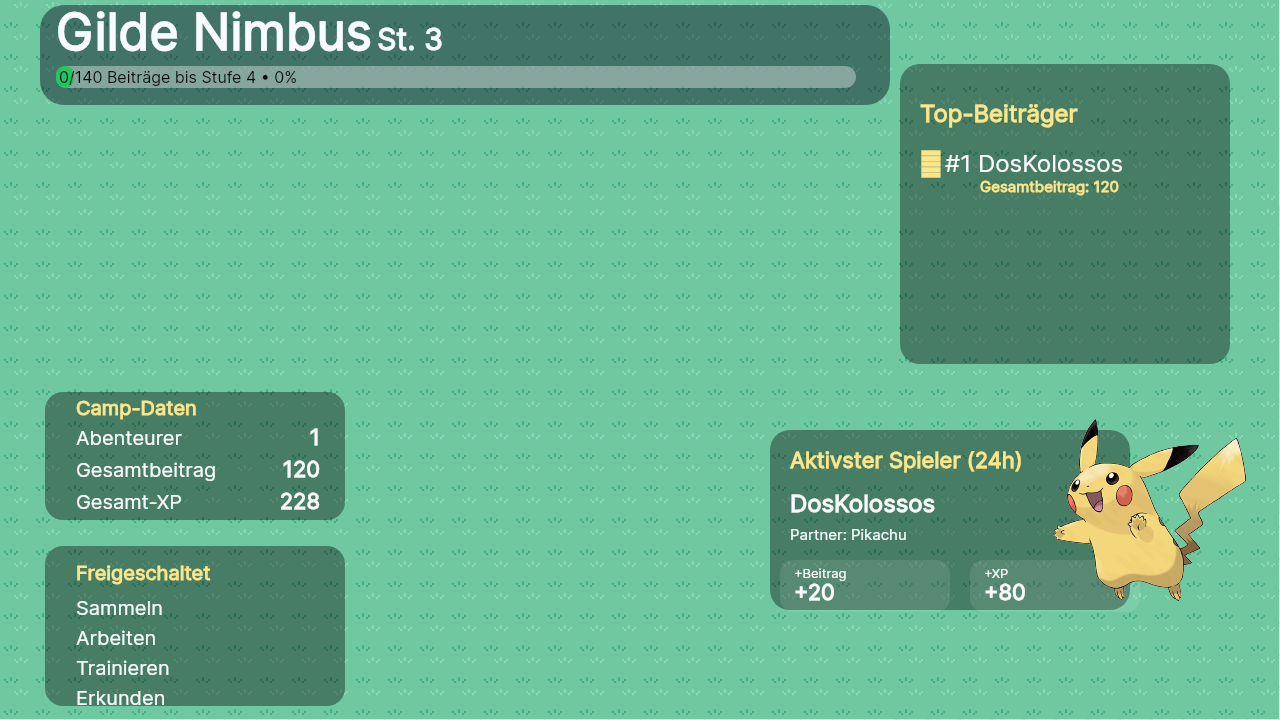
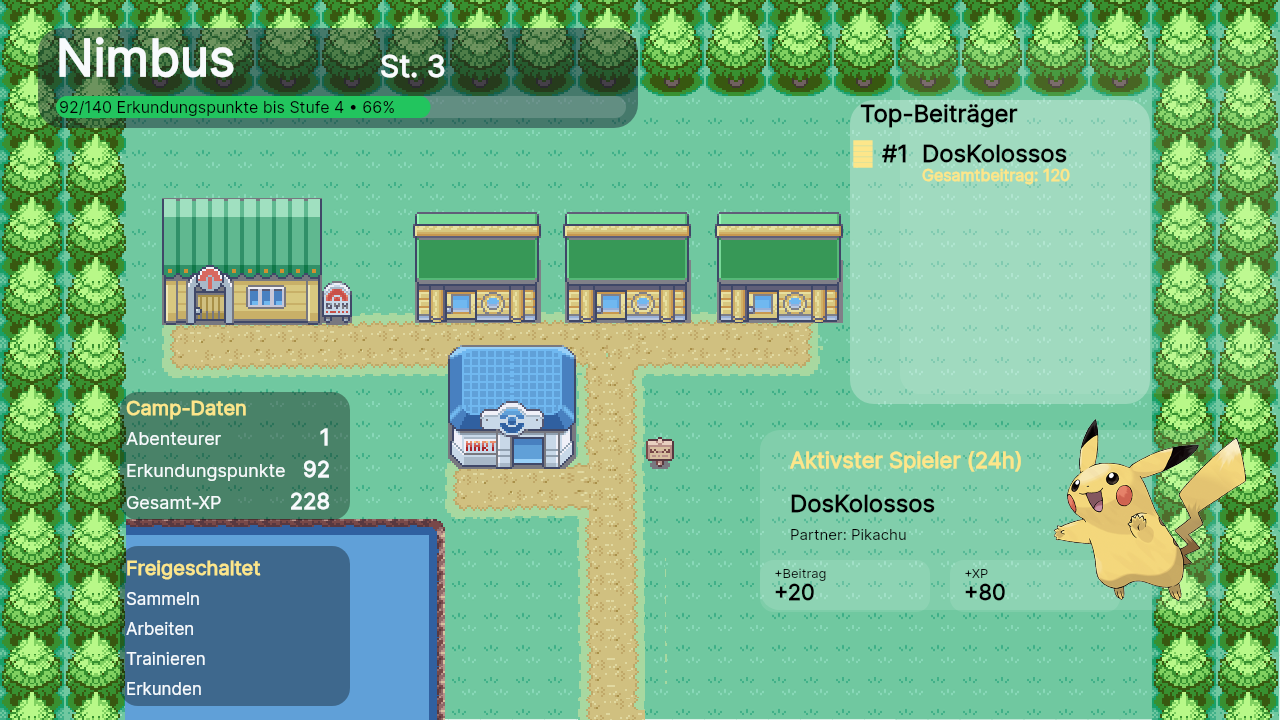
canvas update

diff --git a/src/services/campStatusService.js b/src/services/campStatusService.js
@@ -167,6 +167,7 @@ async function renderCampImageBuffer(guildKey = null) {
     border: 'rgba(255,255,255,0.08)',
     panel: 'rgba(15, 23, 42, 0.78)',
     card: 'rgba(255,255,255,0.08)',
+    cardBlack: 'rgba(0,0,0,0.35)',
     cardStrong: 'rgba(255,255,255,0.12)'
   };
 
@@ -191,18 +192,18 @@ async function renderCampImageBuffer(guildKey = null) {
   const percentText = progress.isMaxLevel ? '100%' : `${Math.round(progressPercent * 100)}%`;
 
   // Header links
-  ctx.fillStyle = colors.black;
+  ctx.fillStyle = colors.white;
   ctx.font = font(50, 'bold');
   ctx.fillText(trimText(ctx, guildName, 280), 56, 76);
 
-  ctx.fillStyle = colors.black;
+  ctx.fillStyle = colors.white;
   ctx.font = font(30, 'bold');
-  ctx.fillText(`St. ${progress.level}`, 360, 77);
+  ctx.fillText(`St. ${progress.level}`, 380, 77);
 
   drawProgressBar(ctx, {
     x: 56,
     y: 96,
-    width: 800,
+    width: 570,
     height: 22,
     fillPercent: progressPercent,
     label: progress.isMaxLevel
@@ -213,54 +214,54 @@ async function renderCampImageBuffer(guildKey = null) {
 
 
   // Linke Karten
-  drawCard(ctx, 56, 292, 200, 128, 18, colors.card);
-  drawCard(ctx, 56, 446, 200, 160, 18, colors.card);
+  drawCard(ctx, 120, 392, 230, 128, 18, colors.cardBlack);
+  drawCard(ctx, 120, 546, 230, 160, 18, colors.cardBlack);
 
   ctx.fillStyle = colors.gold;
-  ctx.font = font(18, 'bold');
-  ctx.fillText('Camp-Daten', 76, 315);
+  ctx.font = font(20, 'bold');
+  ctx.fillText('Camp-Daten', 126, 415);
 
-  drawLabelValue(ctx, 'Abenteurer', String(totals.players), 76, 345, 220, font, colors);
-  drawLabelValue(ctx, progress.progressionLabel, String(progress.resourceValue), 76, 377, 220, font, colors);
-  drawLabelValue(ctx, 'Gesamt-XP', String(totals.xp), 76, 409, 220, font, colors);
+  drawLabelValue(ctx, 'Abenteurer', String(totals.players), 126, 445, 330, font, colors);
+  drawLabelValue(ctx, progress.progressionLabel, String(progress.resourceValue), 126, 477, 330, font, colors);
+  drawLabelValue(ctx, 'Gesamt-XP', String(totals.xp), 126, 509, 330, font, colors);
 
   ctx.fillStyle = colors.gold;
-  ctx.font = font(18, 'bold');
-  ctx.fillText('Freigeschaltet', 76, 480);
+  ctx.font = font(20, 'bold');
+  ctx.fillText('Freigeschaltet', 126, 575);
 
   ctx.font = font(17, 'normal');
-  ctx.fillStyle = colors.black;
+  ctx.fillStyle = colors.white;
   getUnlockedFeatures(progress.level).forEach((feature, index) => {
-    ctx.fillText(`• ${feature}`, 76, 515 + (index * 30));
+    ctx.fillText(`${feature}`, 126, 605 + (index * 30));
   });
 
   // Rechte Spalte
-  drawCard(ctx, 760, 44, 460, 350, 20, colors.card);
+  drawCard(ctx, 900, 44, 460, 350, 20, colors.card);
   drawCard(ctx, 760, 430, 460, 180, 20, colors.cardStrong);
 
   ctx.fillStyle = colors.black;
   ctx.font = font(24, 'bold');
-  ctx.fillText('Top-Beiträger', 790, 82);
+  ctx.fillText('Top-Beiträger',860, 122);
 
   topContributors.forEach((player, index) => {
     const medal = index === 0 ? '🥇' : index === 1 ? '🥈' : '🥉';
-    const y = 132 + (index * 86);
+    const y = 162 + (index * 86);
 
     ctx.fillStyle = colors.gold;
     ctx.font = font(22, 'bold');
-    ctx.fillText(medal, 792, y);
+    ctx.fillText(medal, 852, y);
 
     ctx.fillStyle = colors.black;
     ctx.font = font(24, 'bold');
-    ctx.fillText(trimText(ctx, player.discord_username, 300), 842, y);
+    ctx.fillText(trimText(ctx, player.discord_username, 300), 922, y);
 
     ctx.fillStyle = colors.black;
-    ctx.font = font(16, 'normal');
-    ctx.fillText(`Platz ${index + 1}`, 842, y + 24);
+    ctx.font = font(24, 'bold');
+    ctx.fillText(`#${index + 1}`, 882, y);
 
     ctx.fillStyle = colors.gold;
-    ctx.font = font(20, 'bold');
-    ctx.fillText(`Gesamtbeitrag: ${player.contribution}`, 842, y + 52);
+    ctx.font = font(16, 'bold');
+    ctx.fillText(`Gesamtbeitrag: ${player.contribution}`, 922, y + 18);
   });
 
   ctx.fillStyle = colors.gold;
@@ -383,12 +384,12 @@ function drawFallbackBackground(ctx, width, height, level) {
 }
 
 function drawOverlayPanel(ctx, width, height) {
-  ctx.fillStyle = 'rgba(15, 23, 42, 0.28)';
-  roundRect(ctx, 28, 28, 1224, 664, 24);
+  ctx.fillStyle = 'rgba(15, 23, 42, 0.45)';
+  roundRect(ctx, 38, 28, 600, 100, 24);
   ctx.fill();
 
-  ctx.fillStyle = 'rgba(255,255,255,0.08)';
-  roundRect(ctx, 740, 28, 512, 664, 24);
+  ctx.fillStyle = 'rgba(255,255,255,0.28)'; //
+  roundRect(ctx, 850, 100, 300, 304, 24);
   ctx.fill();
 }
 
@@ -413,11 +414,11 @@ function drawCard(ctx, x, y, width, height, radius, fillStyle) {
 }
 
 function drawLabelValue(ctx, label, value, x, y, valueX, font, colors) {
-  ctx.fillStyle = colors.black;
-  ctx.font = font(15, 'normal');
+  ctx.fillStyle = colors.white;
+  ctx.font = font(18, 'normal');
   ctx.fillText(label, x, y);
 
-  ctx.fillStyle = colors.black;
+  ctx.fillStyle = colors.white;
   ctx.font = font(22, 'bold');
   const measured = ctx.measureText(value).width;
   ctx.fillText(value, valueX - measured, y);
